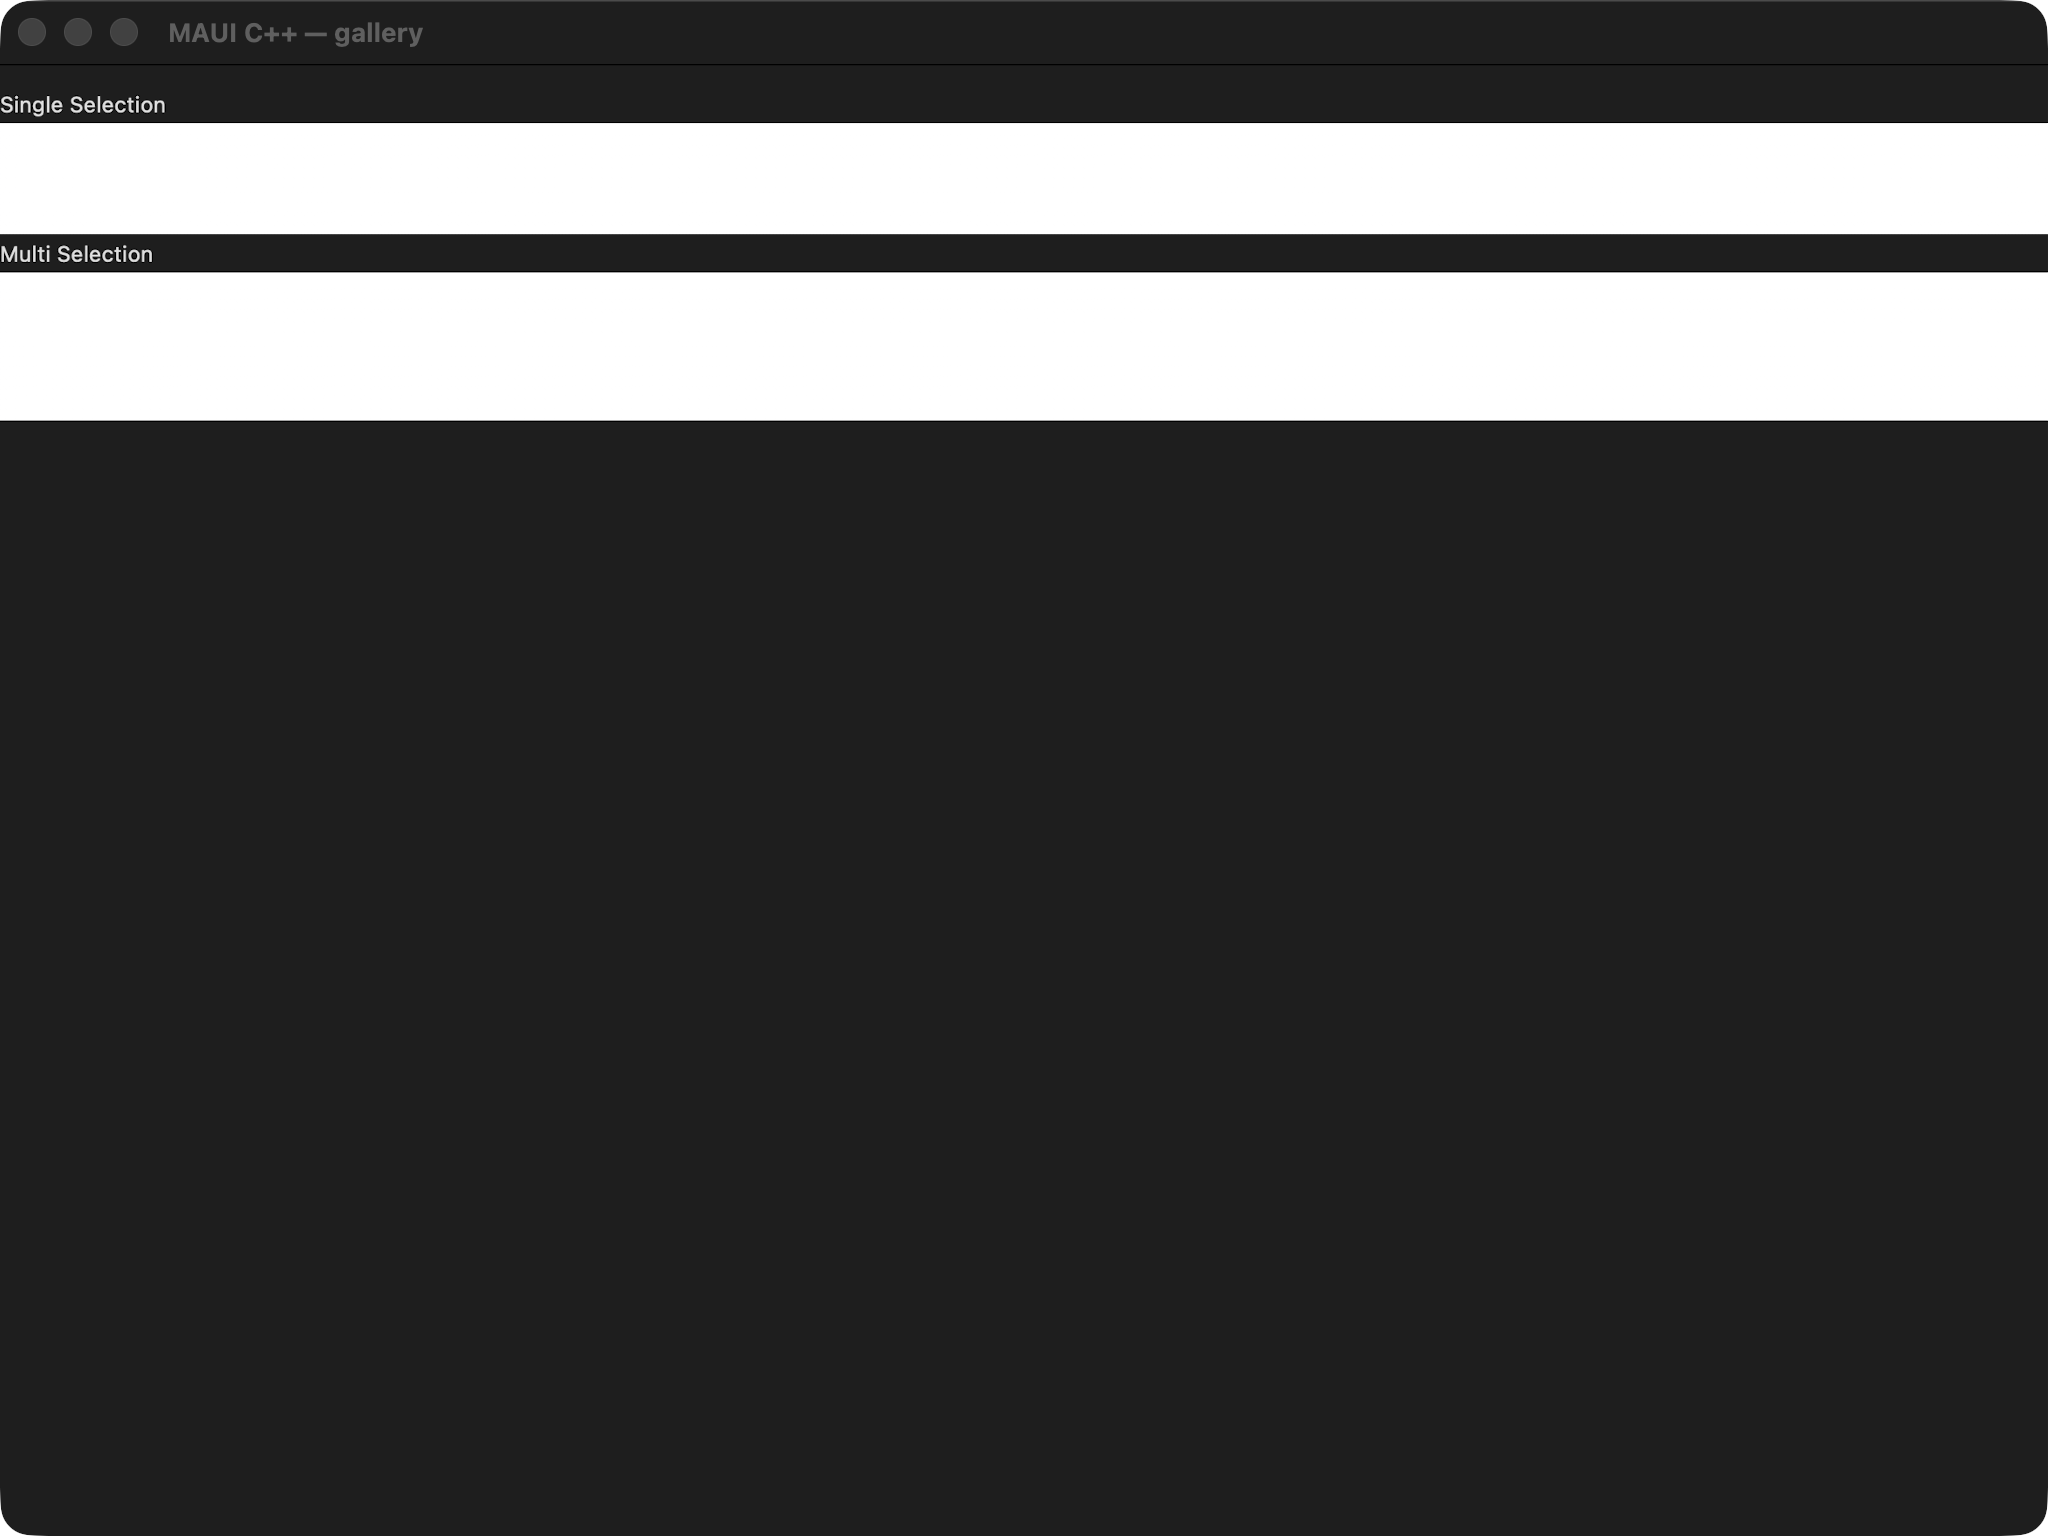
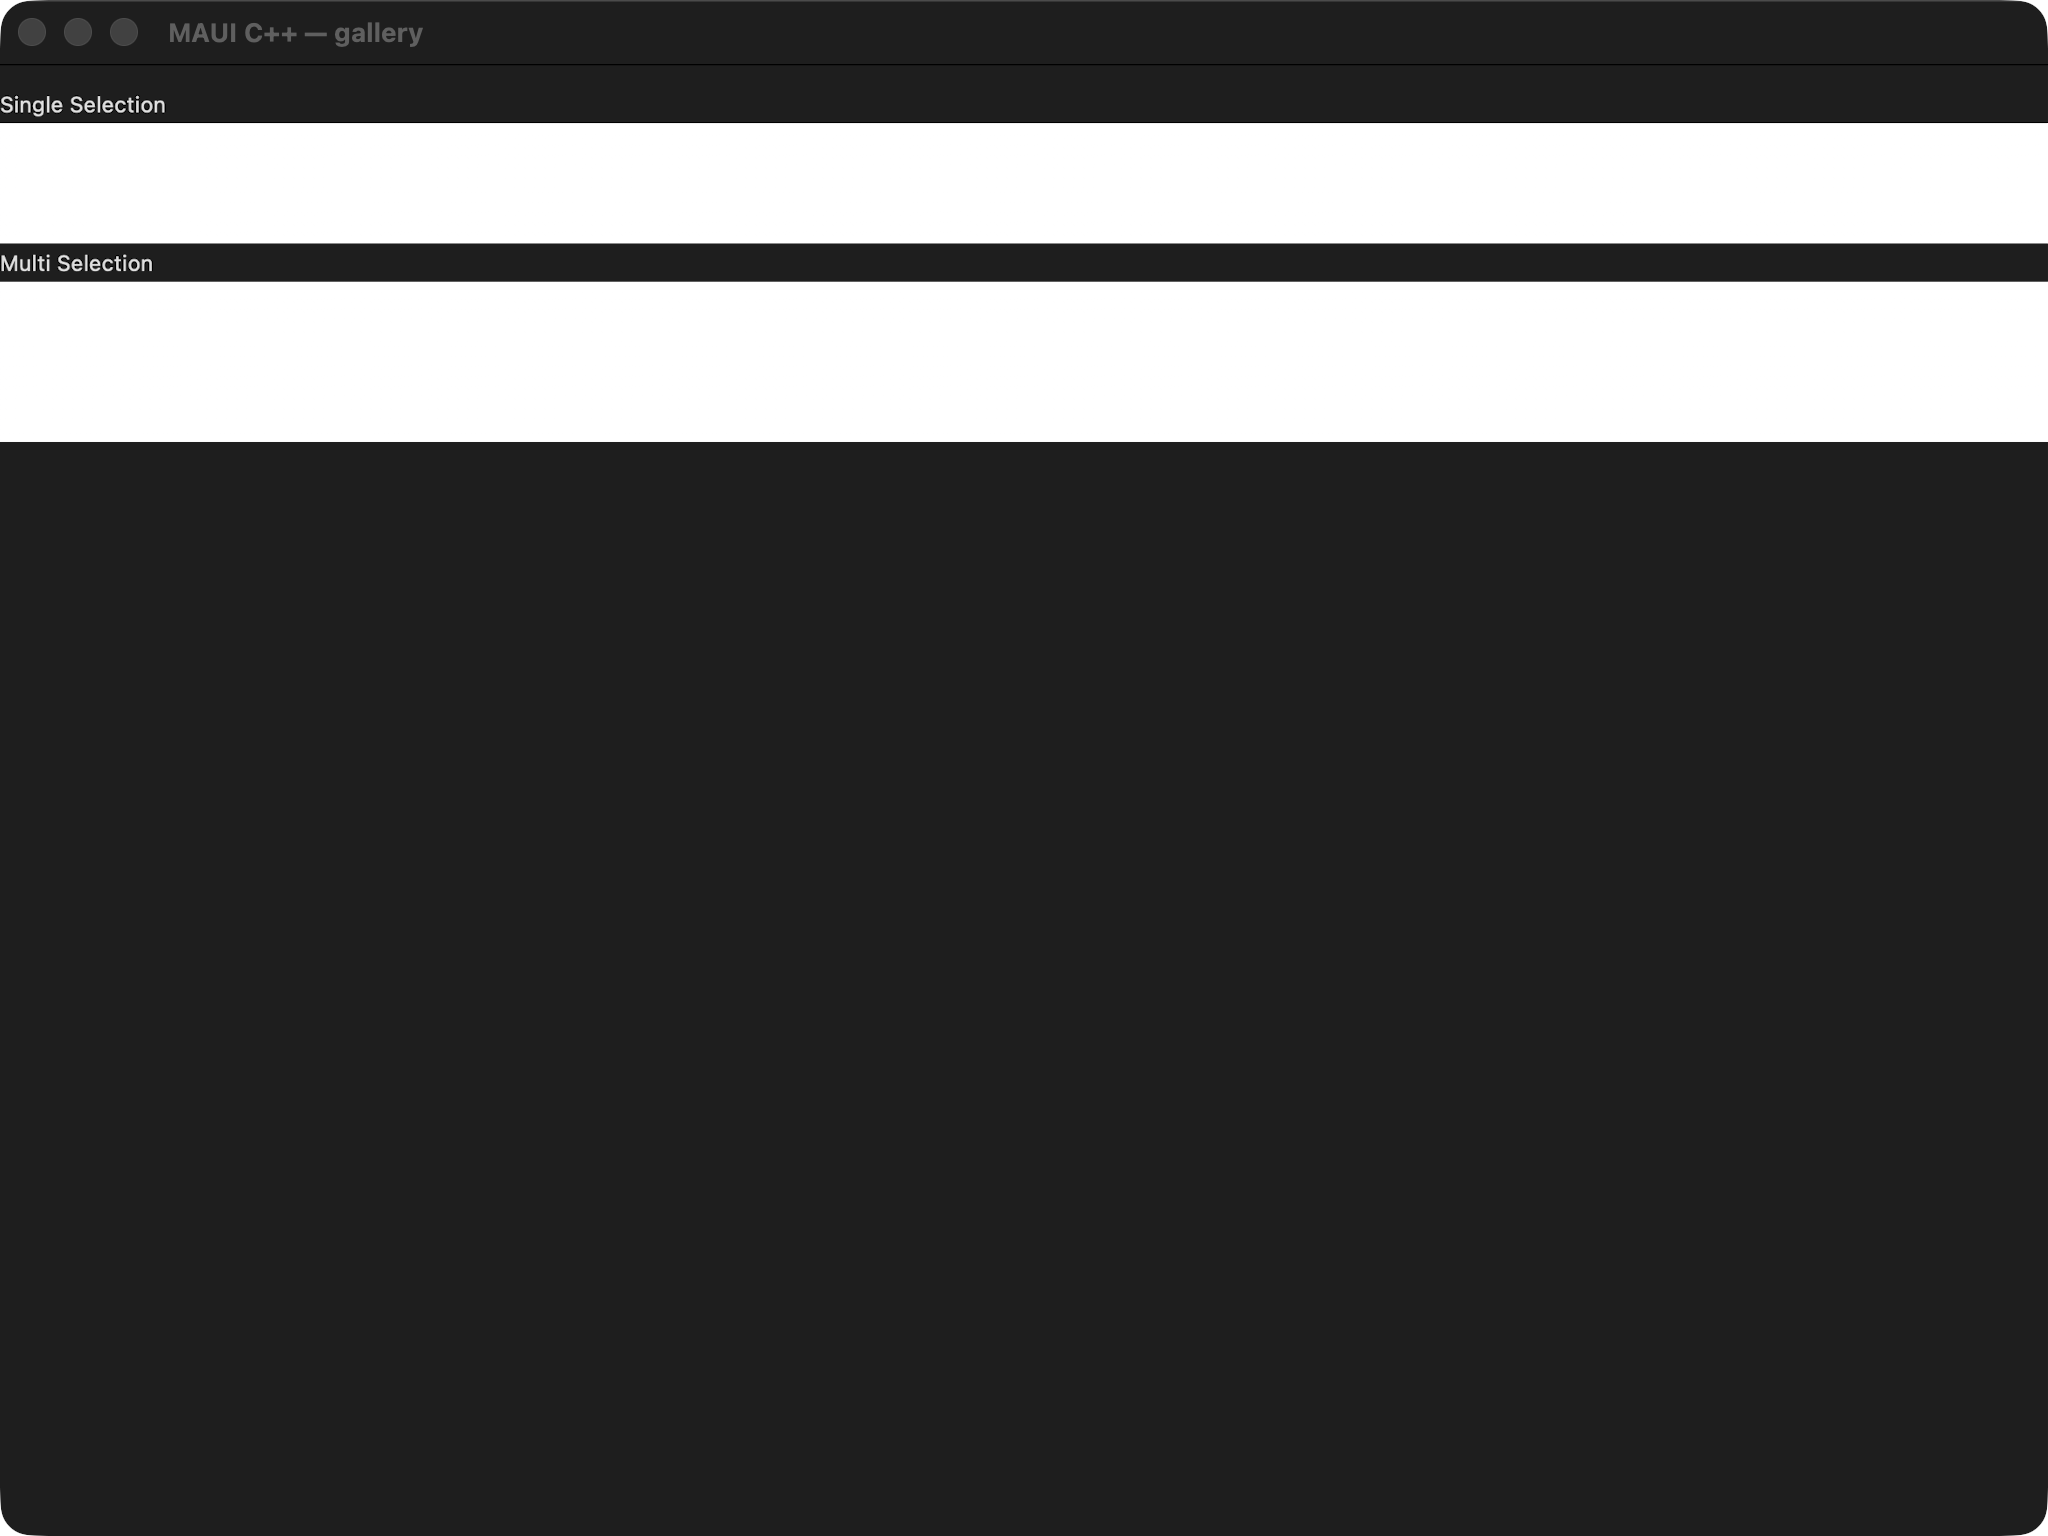
fix(gallery): cv_visual_states — wrap cell in an owned Grid to match native row height
The builder's CollectionView cell was a bare bound Label, while the shared
twin (pages/cv_visual_states.xaml) hydrates the real Grid-wrapped cell
(<Grid BackgroundColor="White"><Grid><Label/></Grid></Grid>). A prior
comment claimed the Grid wrapper had "no headless-visible geometric effect"
and collapsed it away — true in the headless test harness, but not on a
real native backend: MAUI's own Mac Catalyst capture measures a 3-item
Single Selection CollectionView at 120px (MeasureFirstItem sizing off the
actual Grid-wrapped cell), while the bare-Label builder measured only 111px.
This 3pt-per-row native delta is what the new cpp<->xaml consistency check
caught — both columns were reviewed "green" against MAUI despite disagreeing
with each other by a growing margin across each list's rows.

Fix: line_item_cell is now a Grid subclass that OWNS a bound Label child
(layout::add() only references children, so the label must be a genuine
member — see its doc comment), pushing the item's text via
on_binding_context_changed (the same idiom as header_footer_template_page's
photo_cell). Needed two follow-on fixes to make this actually render
natively:
  - line_item_cell must add explicit Auto row/column definitions: a Grid
    with none gets an implicit STAR cell (grid_layout_manager), which
    degenerates to zero height under MeasureFirstItem's self-sizing measure
    pass (a star needs a finite constraint). Auto makes it shrink-to-fit its
[…]

Changed region(s): [[0.0, 0.25, 1.0, 0.3125], [0.0, 0.125, 1.0, 0.1875]]

diff --git a/port/cpp/examples/gallery/pages/cv_visual_states_page.hpp b/port/cpp/examples/gallery/pages/cv_visual_states_page.hpp
@@ -17,11 +17,10 @@
 //
 // The port mirrors this with the selectable_items_view selection surface + the per-cell VSM:
 //   - line_item: the reflection-free LineItem — just the ItemName the cell label binds;
-//   - each CollectionView gets a data_template::of<label> cell bound to line_item.ItemName, NoWrap +
-//     a Large-ish font (FontSize="Large"), AND a CommonStates VSM group (Normal/Selected) staged onto
-//     the created cell content via add_cell_visual_states() so each realized cell carries the group —
-//     the closest faithful code-first analog of the XAML's VisualStateManager.VisualStateGroups on the
-//     cell's root view;
+//   - each CollectionView gets a data_template::of<line_item_cell> cell — line_item_cell is a Grid that
+//     OWNS a bound NoWrap Large-font (FontSize="Large") Label child, matching the twin's Grid-rooted
+//     cell structure (see line_item_cell's own doc comment for why the child must be owned, not just
+//     referenced);
 //   - selection_mode is Single / Multiple respectively; item_sizing_strategy is measure_first_item;
 //     empty_view is the boxed "No items defined" string.
 //
@@ -38,14 +37,18 @@
 //       through the selectable_items_view surface (selected_item() / selected_items()), exercised by the
 //       select_single / select_multiple drivers below.
 // note: the XAML nests the bound Label inside two Grids (a root Grid carrying the VSM + an inner Grid).
-//       The nesting has no headless-visible geometric effect, so — exactly like the grouping siblings —
-//       the cell is the bound Label directly, and the VSM group is staged on that Label (the cell root).
+//       The inner Grid has no headless- or native-visible geometric effect and is collapsed away, but the
+//       OUTER Grid does: MAUI/the xaml twin measure the MeasureFirstItem row height off the actual
+//       Grid-wrapped cell, which is measurably taller (natively) than a bare Label. PORT FIX (2026-07-06,
+//       the cpp<->xaml consistency check): the cell root is now line_item_cell (a Grid owning the bound
+//       Label), not the bound Label directly — see line_item_cell below.
 
 #include <memory>
 #include <string>
 #include <vector>
 
 #include "maui/controls/content_page.hpp"
+#include "maui/controls/grid.hpp"
 #include "maui/controls/items/boxed_item.hpp"
 #include "maui/controls/items/collection_view.hpp"
 #include "maui/controls/items/item_sizing_strategy.hpp"
@@ -71,6 +74,55 @@ namespace maui::samples
         {
             std::string item_name;
             friend bool operator==(const line_item&, const line_item&) = default;
+        };
+
+        // The cell root: a Grid that OWNS its bound Label child (layout::add() only references children,
+        // it does not own them — PROFILE §8 — so a data_template::of<TControl>() cell that needs to add a
+        // freshly-created child must own that child as a member, exactly like this composite). Mirrors the
+        // twin's <Grid BackgroundColor="White"><Grid><Label .../></Grid></Grid> (the outer Grid only; the
+        // inner Grid has no headless- OR native-visible geometric effect and is collapsed away).
+        class line_item_cell final : public maui::controls::grid
+        {
+        public:
+            line_item_cell()
+            {
+                // A Grid with NO explicit RowDefinitions/ColumnDefinitions gets ONE implicit row/column —
+                // but the port's grid_layout_manager (see make_rows/make_columns in
+                // src/layouts/grid_layout_manager.cpp) treats that implicit cell as `*` (star), not
+                // `Auto`. A star row/column has no natural size of its own: under MeasureFirstItem's
+                // infinite/self-sizing measure pass it degenerates to a ZERO-height cell (a star needs a
+                // finite constraint to compute its proportional share), which measured this whole
+                // CollectionView to nothing. An explicit Auto row/column makes the Grid self-size to its
+                // (single) child's natural size instead, matching a plain MAUI `<Grid>` with no
+                // RowDefinitions (which defaults each axis to one Auto-equivalent star cell that DOES
+                // shrink-to-fit when there's exactly one child and no siblings competing for space —
+                // reproduced here explicitly since the port's implicit-star fallback does not shrink-to-fit
+                // under an infinite constraint).
+                add_row_definition(maui::core::grid_length::automatic());
+                add_column_definition(maui::core::grid_length::automatic());
+                // FontSize="Large" (the loader resolves the named size "Large" to 22.0pt, see
+                // xaml_converters.cpp's named_sizes table — matches MAUI's actual measured cell/row
+                // height) + LineBreakMode="NoWrap".
+                label_.set_font(maui::core::font::system_font_of_size(22.0));
+                label_.set_line_break_mode(maui::core::line_break_mode::no_wrap);
+                add(label_);
+            }
+
+        protected:
+            // Push {Binding .} (the context itself, mirroring the twin's inline x:Array of strings via
+            // ItemName) → Label.Text when the cell's BindingContext (the line_item) is set by the realize
+            // path — the same on_binding_context_changed hook as header_footer_template_page's photo_cell.
+            void on_binding_context_changed() override
+            {
+                maui::controls::grid::on_binding_context_changed(); // propagate to children first
+                if (const auto item = binding_context<line_item>())
+                {
+                    label_.set_text(item->item_name);
+                }
+            }
+
+        private:
+            maui::controls::label label_;
         };
 
         cv_visual_states_page()
@@ -110,6 +162,18 @@ namespace maui::samples
         [[nodiscard]] maui::controls::content_page& page()
         {
             return page_;
+        }
+
+        // PRE-MOUNT hook (gallery_host.hpp gallery_pre_mount): register line_item_cell's handler BEFORE
+        // mount_window / the collection_view realize walk. line_item_cell is a brand-new user type (like
+        // header_footer_template_page's photo_cell), so its handler isn't self-registered; the
+        // collection_view realize path resolves a template's handler via THIS app's per-app
+        // handler_registry (of<TCell>() → create_handler by the cell's type_tag) — without this the native
+        // cell realize silently no-ops (content_type() has no registered handler) and the lists render
+        // blank. line_item_cell is a grid subclass, so it shares grid's layout_handler.
+        void register_handlers(maui::hosting::maui_app& app)
+        {
+            maui::core::register_handler<line_item_cell, maui::core::layout_handler>(app.handlers());
         }
 
         // ---- headless selection drivers (selection is observable; the per-cell recolor is not — note:)
@@ -152,7 +216,7 @@ namespace maui::samples
         }
 
     private:
-        // Both lists share the same cell shape (a bound NoWrap Large label at the White base look), the
+        // Both lists share the same cell shape (a Grid-rooted line_item_cell at the White base look), the
         // same MeasureFirstItem sizing, and the same "No items defined" empty view — only the
         // selection_mode differs.
         //
@@ -172,14 +236,20 @@ namespace maui::samples
         //       swap.
         void configure_list(maui::controls::collection_view& list, maui::controls::selection_mode mode)
         {
-            auto cell = maui::controls::data_template::of<maui::controls::label>();
-            cell->set_binding<std::string, line_item>(maui::controls::label::text_property(),
-                                                      [](const line_item& item) { return item.item_name; });
-            // FontSize="Large" + LineBreakMode="NoWrap".
-            cell->set_value(maui::controls::label::font_property(), maui::core::font::system_font_of_size(20));
-            cell->set_value(maui::controls::label::line_break_mode_property(), maui::core::line_break_mode::no_wrap);
+            // The cell root is a Grid (line_item_cell, matching the twin's <Grid BackgroundColor="White">
+            // <Grid><Label/></Grid></Grid> — the outer Grid only; the inner Grid has no headless- OR
+            // native-visible geometric effect and is collapsed away). PORT FIX (2026-07-06): this used to
+            // be a bare Label root. That collapse IS geometrically invisible in the headless test harness,
+            // but NOT on a real native backend (Mac Catalyst) — a bare Label measures ~3pt shorter per row
+            // than MAUI's actual Grid-wrapped cell (measured natively: MAUI's own capture showed a
+            // 120px-tall 3-item Single Selection CollectionView; the bare-Label builder measured only
+            // 111px, a real 3pt/row native-Grid-vs-Label MeasureFirstItem delta), which is what the
+            // cpp<->xaml consistency check caught (xaml's real Grid-rooted hydration already measured
+            // 120px, matching MAUI). Wrapping the cell root in a Grid, with the bound Label as its owned
+            // child, reproduces MAUI's actual measured row height.
+            auto cell = maui::controls::data_template::of<line_item_cell>();
             // C# Normal state = the cell's Grid BackgroundColor=White (an EXPLICIT color the theme must
-            // never override): stage it on the single-root cell as a white background paint. The MAUI
+            // never override): stage it on the Grid root as a white background paint. The MAUI
             // reference retains the white bands in DARK mode too (the dark-theme adaptive label color
             // turns white, so the item text goes invisible on them — MAUI's own render, ground truth per
             // ruling 1); the port reproduces exactly that by leaving the text color at the system
@@ -187,8 +257,8 @@ namespace maui::samples
             // staging that group per cell is the documented struct-cell-template limit (see header note),
             // so only the Normal/base look is reproduced here.
             cell->set_value(maui::controls::background_property(),
-                            std::static_pointer_cast<maui::graphics::paint>(std::make_shared<maui::graphics::solid_paint>(
-                                maui::graphics::colors::white)));
+                            std::static_pointer_cast<maui::graphics::paint>(
+                                std::make_shared<maui::graphics::solid_paint>(maui::graphics::colors::white)));
             list.set_item_template(cell);
 
             list.set_selection_mode(mode);
